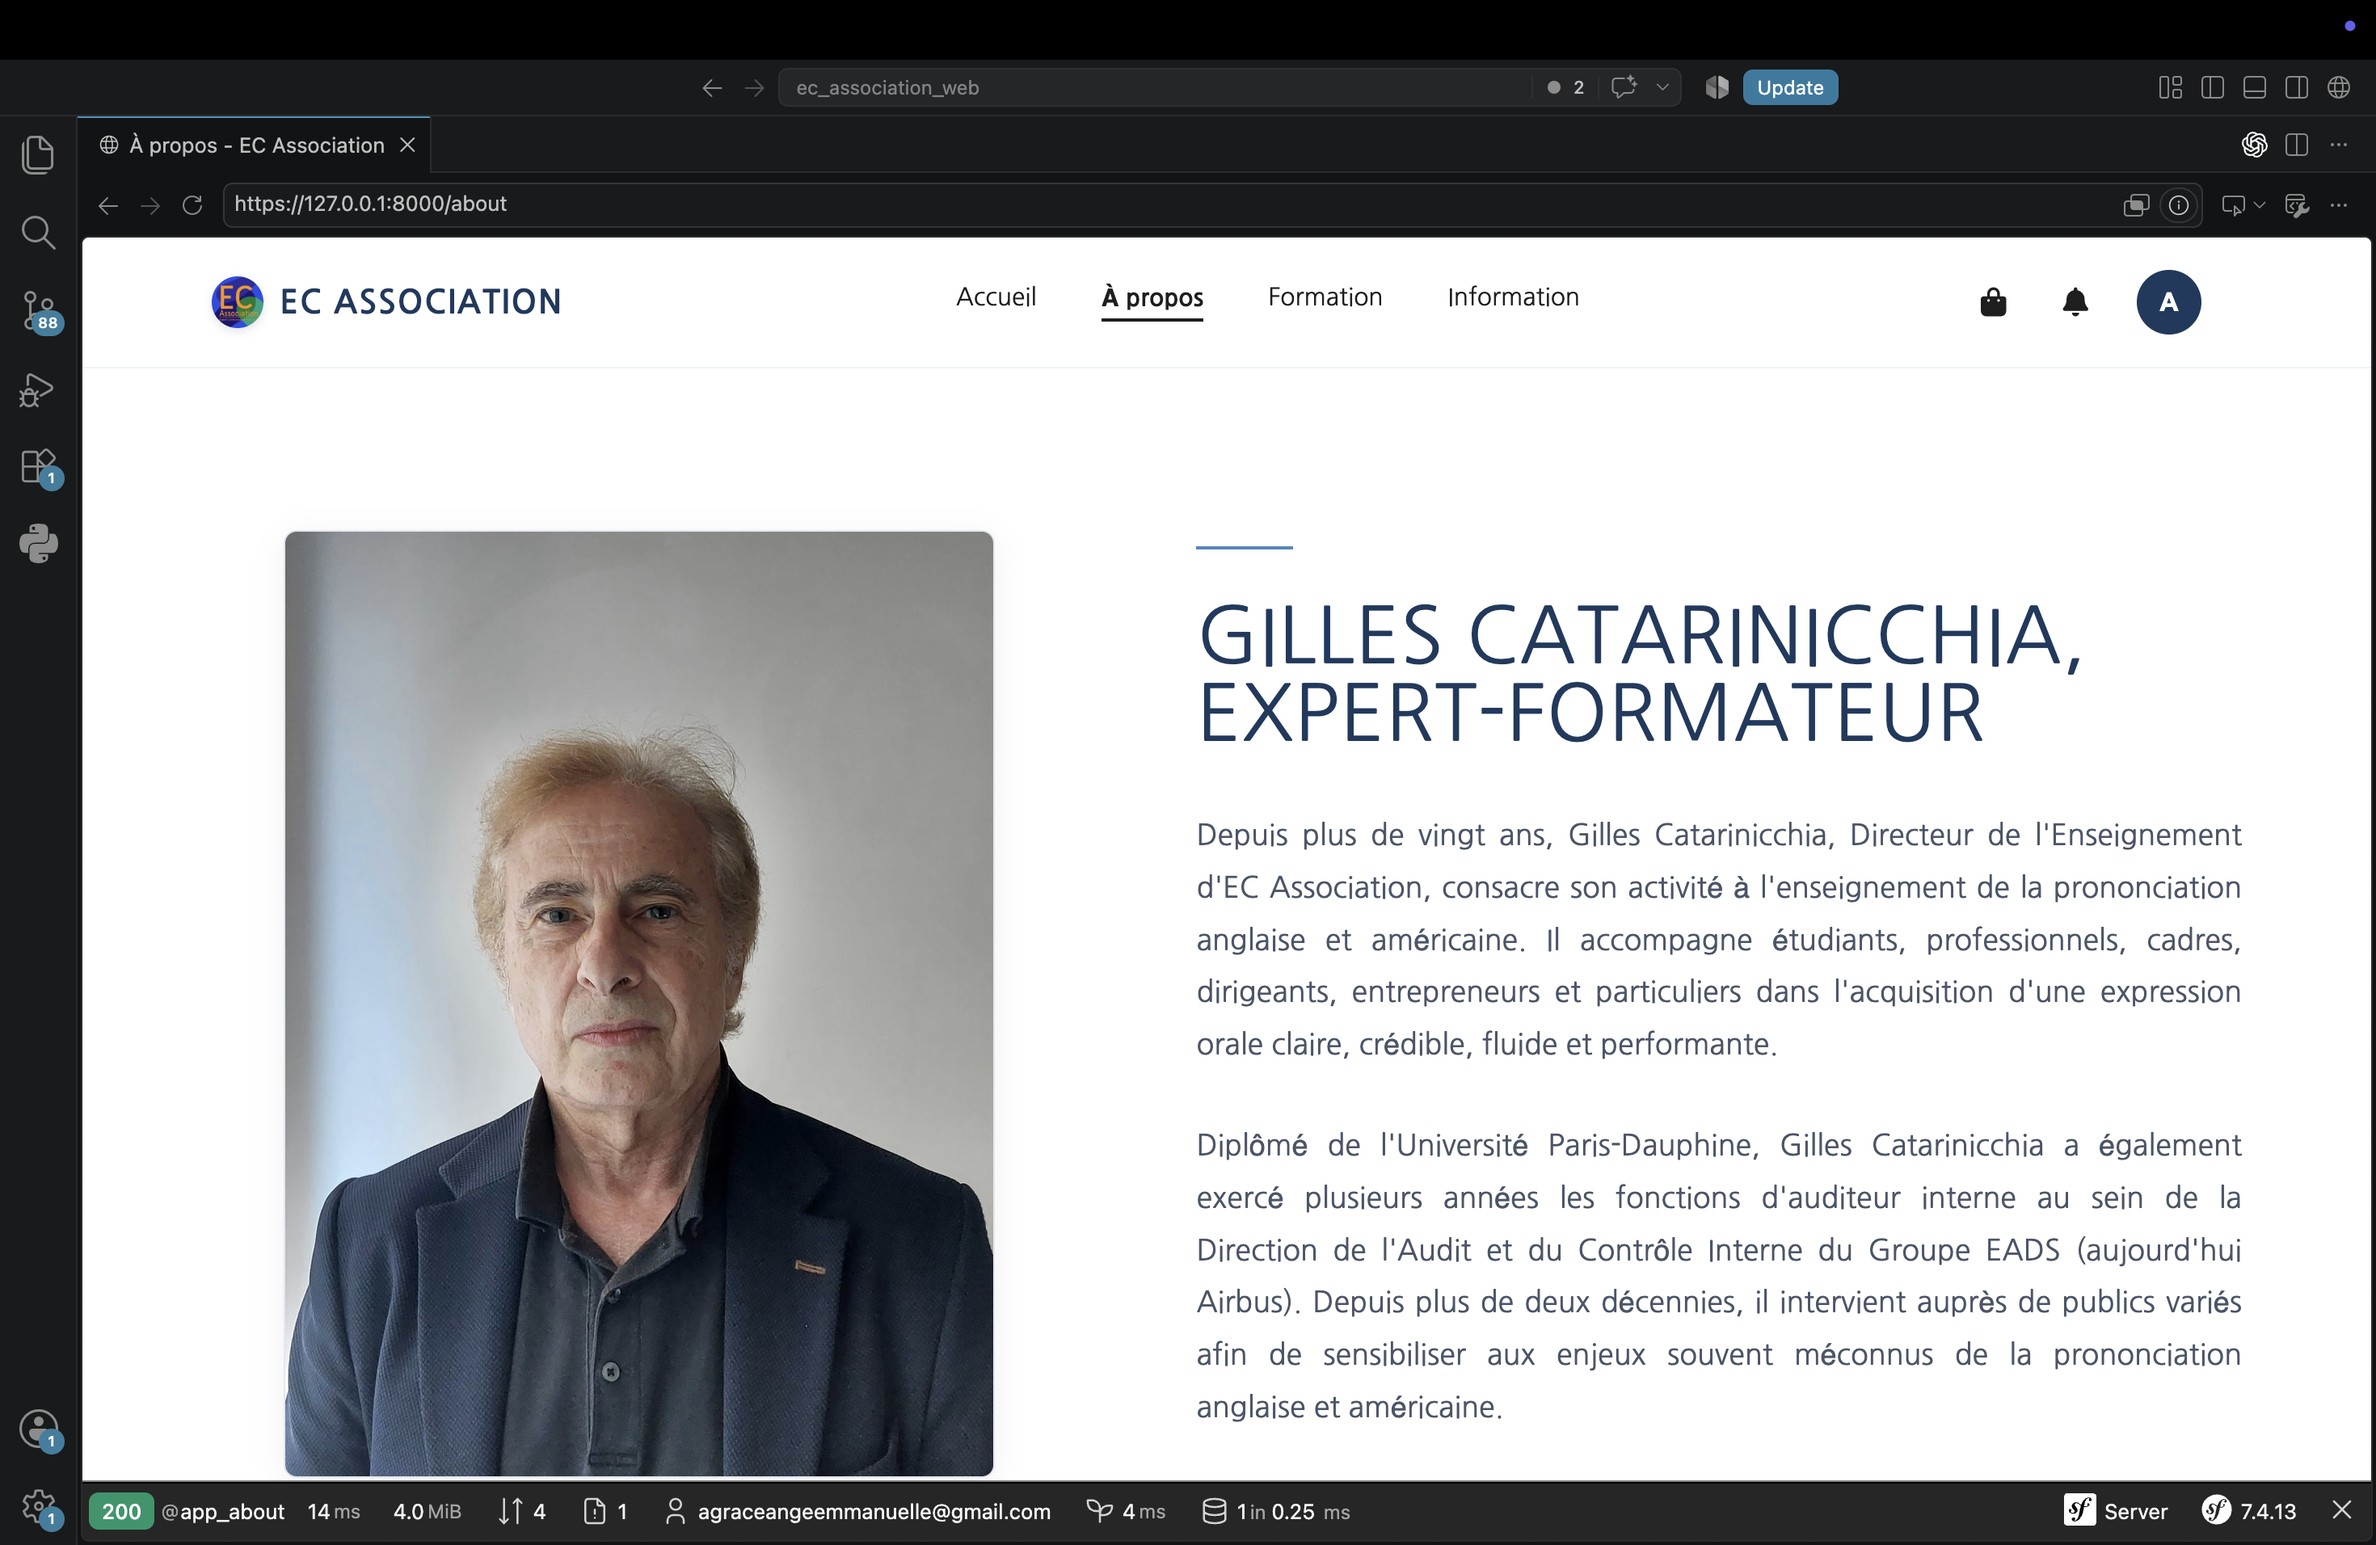
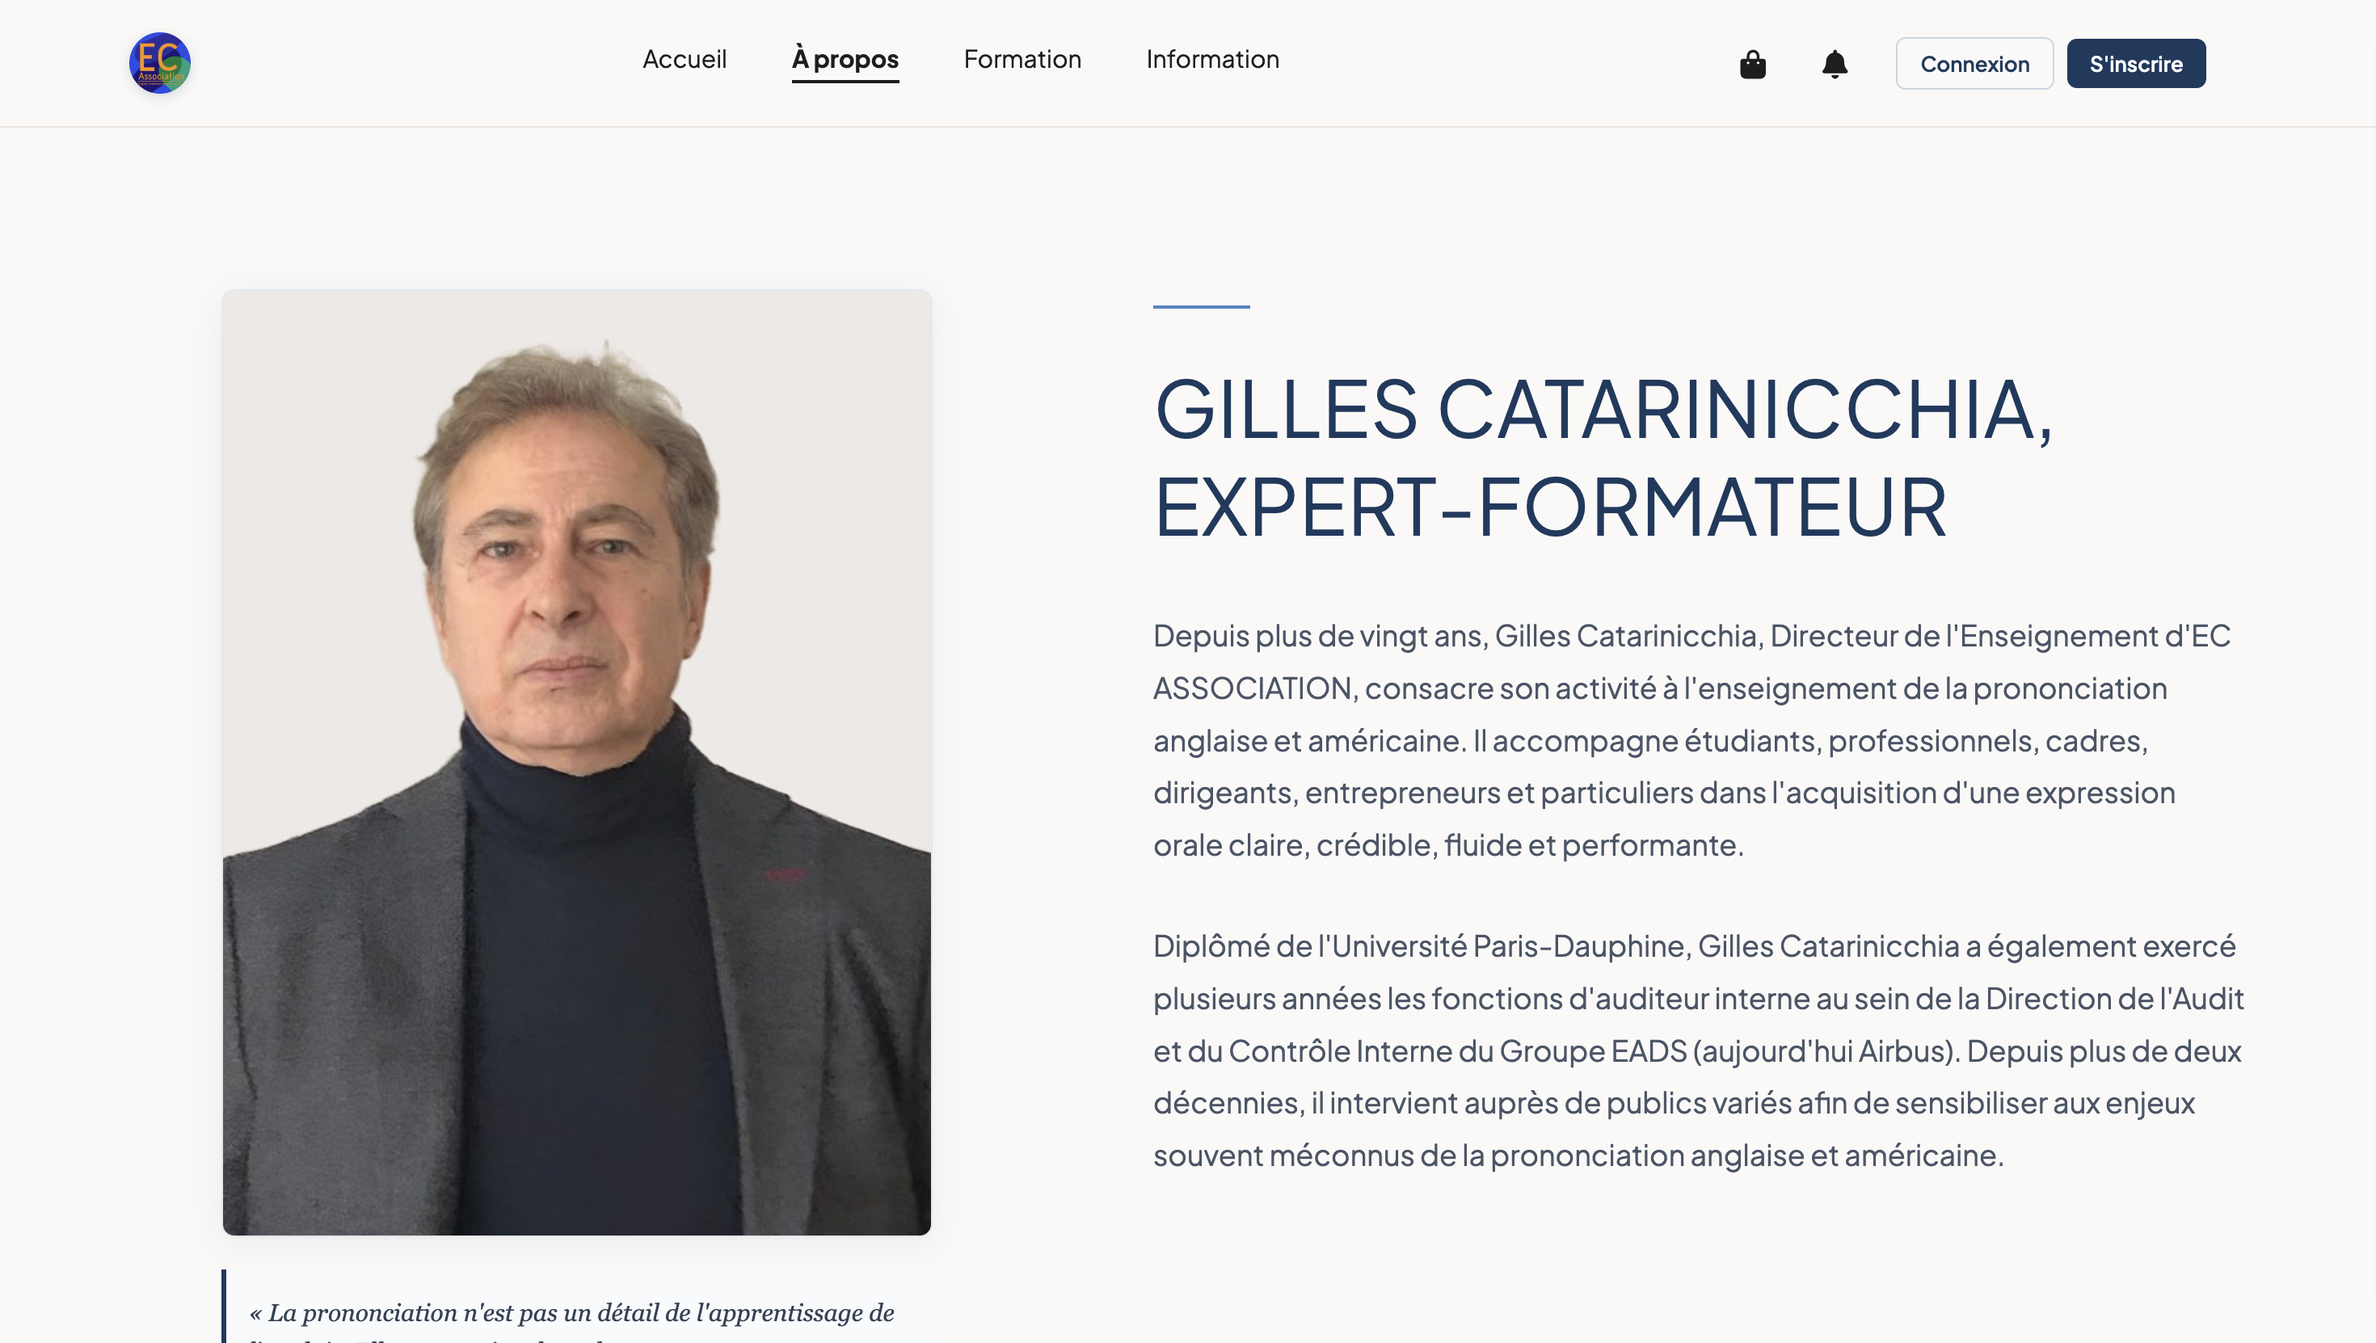
ajout de nouvelles images

diff --git a/README.md b/README.md
@@ -68,7 +68,7 @@ Dans le cadre de mon stage, j'ai réalisé l'ensemble du projet, notamment :
 
 ### 📚 Formations
 
-![Page des formations](./images/pageformation.png)
+![Page des formations](./images/pageformations.png)
 
 ### 📖 À propos
 
@@ -76,11 +76,12 @@ Dans le cadre de mon stage, j'ai réalisé l'ensemble du projet, notamment :
 
 ### ℹ Informations sur une formation
 
-![Informations sur une formation](./images/pageinformation.png)
+![Informations sur une formation](./images/pageinformations.png)
 
 ### 💳 Paiement
 
-![Page de paiement](./images/pagepaiement.png)
+![Page de paiement](./images/pagepaiement1.png)
+![Page de paiement](./images/pagepaiement2.png)
 
 ### ✅ Confirmation du code OTP lors de l'inscription
 
